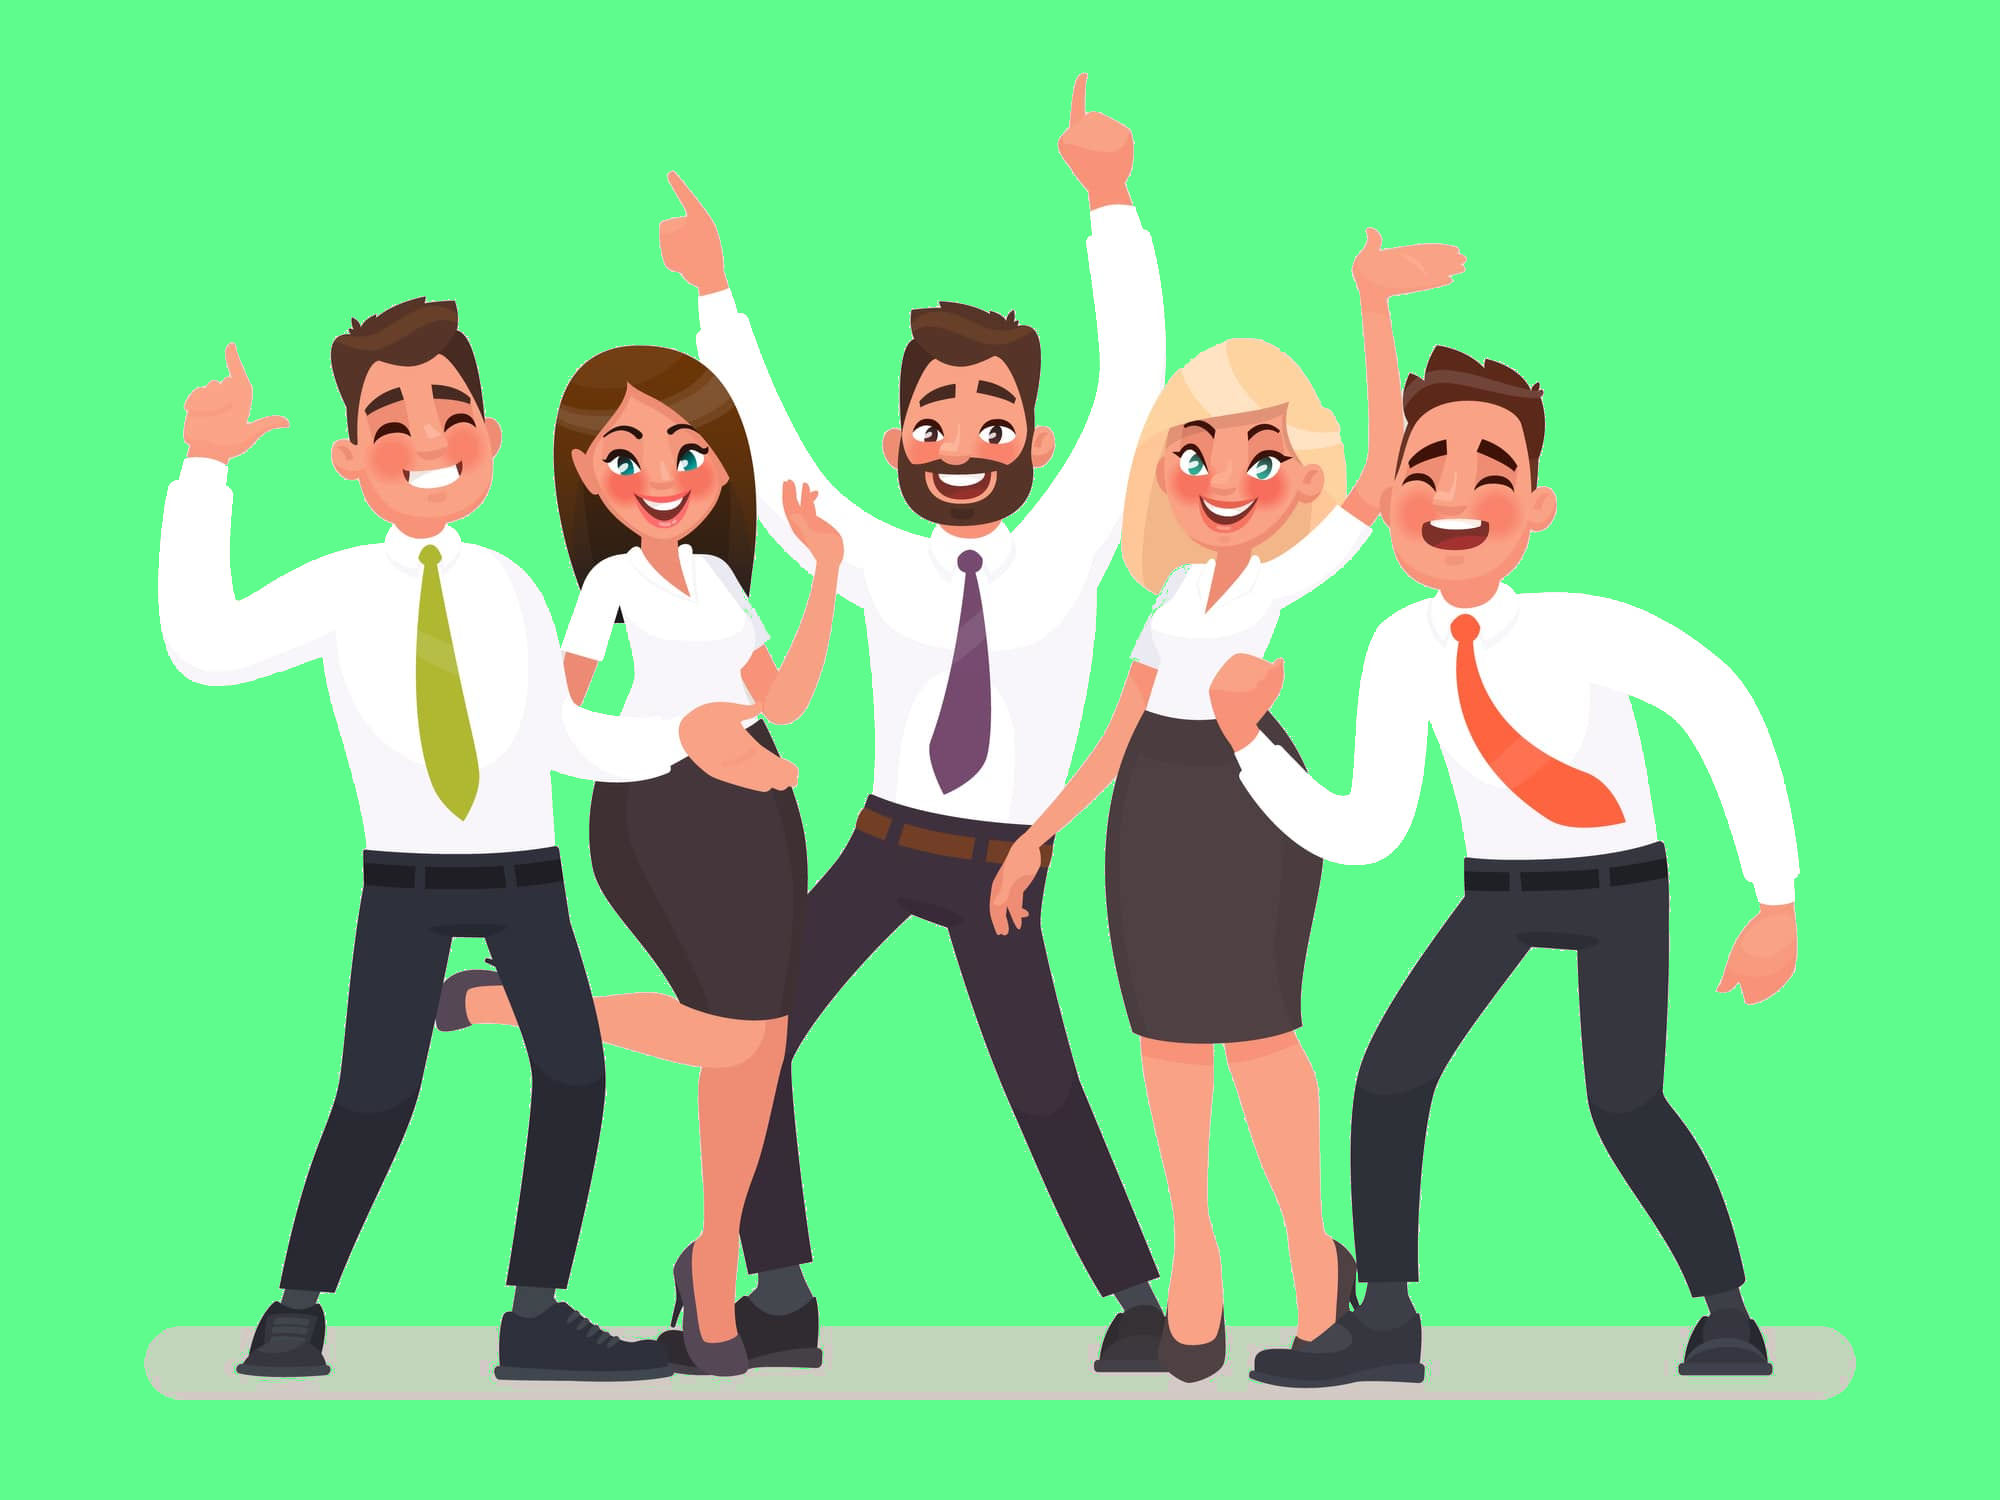
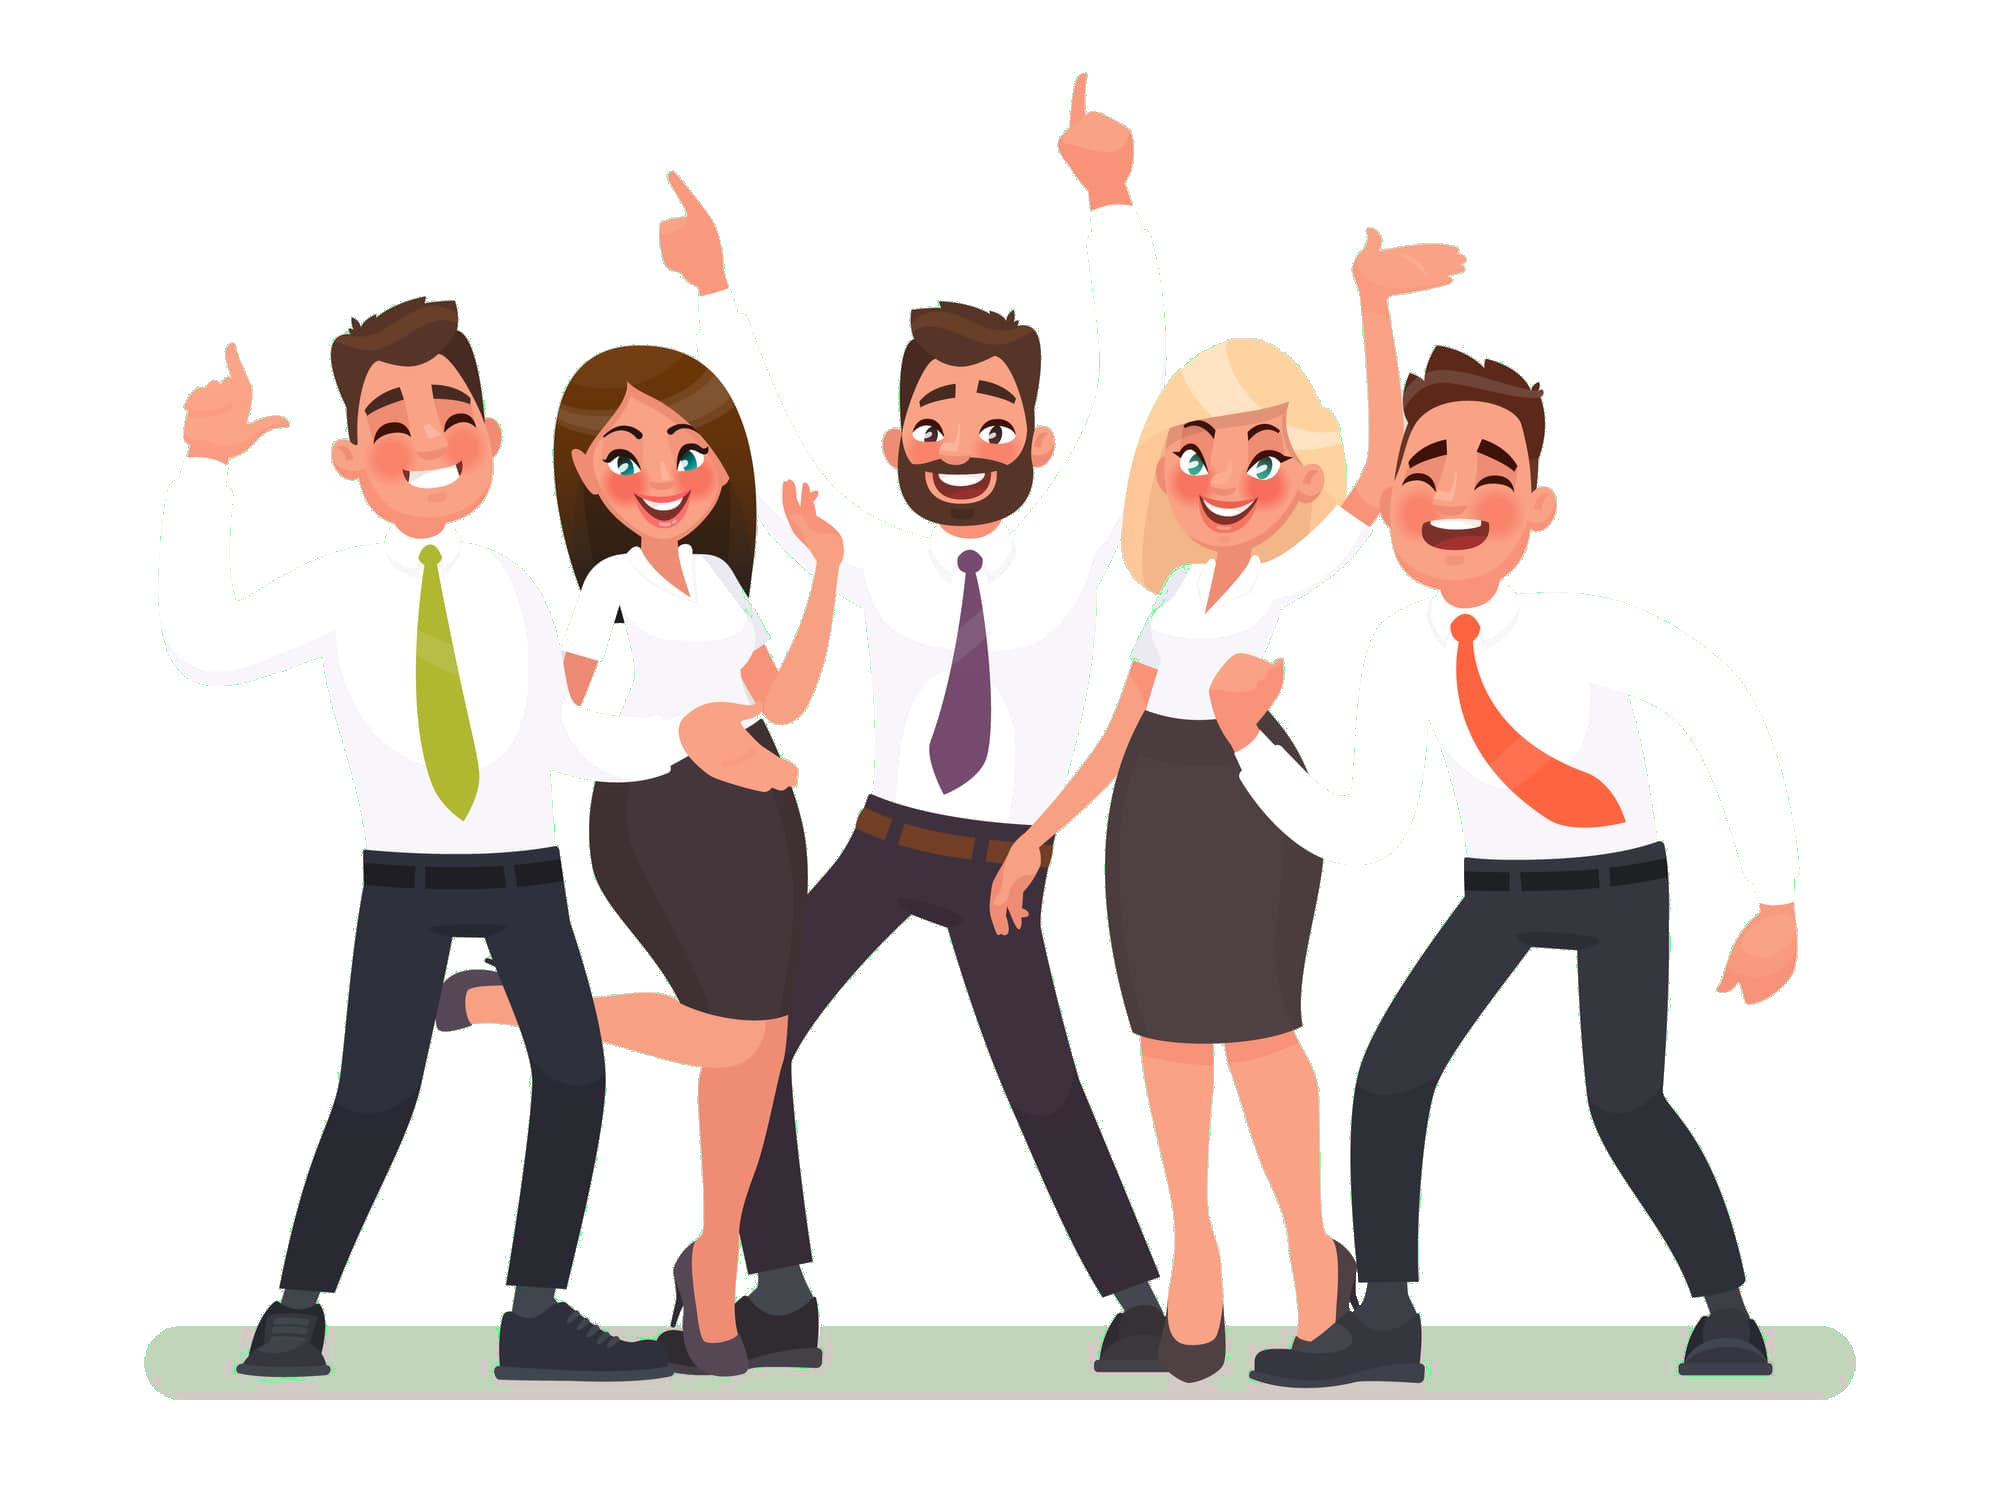
imagens corrigidas(fundo transparente); correções de login;

diff --git a/src/main/webapp/resources/css/style.css b/src/main/webapp/resources/css/style.css
@@ -6,7 +6,8 @@ body {
     font-family: Poppins, Helvetica, sans-serif;
     font-size: 16px;
     color: black;
-    background: #5EFC8D;
+    background-image: linear-gradient(to bottom ,#5EFC8D, #0a58ca);
+    /*background: #5EFC8D;*/
 }
 
 h1 {
@@ -33,7 +34,7 @@ label {
 
 header{
     position: absolute;
-    background-color: gainsboro;
+    background-color: rgba(220, 220, 220, 0);
     height: 40px;
     width: 100%;
     box-shadow: 0px 0px 10px black;
@@ -41,7 +42,7 @@ header{
 }
 
 footer {
-    background-color: #5EFC8D;
+    background-color: rgba(94, 252, 141, 0);
     display: flex;
     min-height: 100px;
     width: 100%;
@@ -57,7 +58,7 @@ main {
     min-height: -webkit-calc(100vh - 100px);
     min-height:    -moz-calc(100vh - 100px);
     min-height:         calc(100vh - 100px);
-    margin-bottom: 50px;
+    margin-bottom: 100px;
 }
 
 /* Classes Personalizadas */
@@ -187,6 +188,13 @@ main {
     -webkit-user-select: none;
     -moz-user-select: none;
     user-select: none;
+}
+
+
+.form-floating > label{
+    margin: 1px !important;
+    justify-content: start;
+    color: #0a58ca;
 }
 
 @media (min-width: 768px) {

diff --git a/src/main/java/com/github/lipenathan/chillout/controlador/LoginController.java b/src/main/java/com/github/lipenathan/chillout/controlador/LoginController.java
@@ -20,6 +20,7 @@ public class LoginController implements Serializable {
      * Armazena o usuário logado.
      */
     private Usuario usuario = new Usuario();
+    private boolean usuarioLogado = false;
 
     public String logar() {
         ProcessoLogin processoLogin = new ProcessoLogin();
@@ -38,6 +39,7 @@ public class LoginController implements Serializable {
                     facesContext.addMessage(null, new FacesMessage("Senha incorreta"));
                 } else {
                     usuario = u;
+                    usuarioLogado = true;
                     pagina = seguirFluxo();
                 }
             }
@@ -45,6 +47,12 @@ public class LoginController implements Serializable {
             facesContext.addMessage(null, new FacesMessage(e.getMessage()));
         }
         return pagina;
+    }
+
+    public String deslogar() {
+        this.usuario = new Usuario();
+        usuarioLogado = false;
+        return "/publico/login.xhtml?faces-redirect=true";
     }
 
     private boolean senhaValida(String senha) throws NoSuchAlgorithmException {
@@ -71,4 +79,12 @@ public class LoginController implements Serializable {
     public void setUsuario(Usuario usuario) {
         this.usuario = usuario;
     }
+
+    public boolean isUsuarioLogado() {
+        return usuarioLogado;
+    }
+
+//    public boolean isColaborador() {
+//        return usuarioLogado
+//    }
 }
